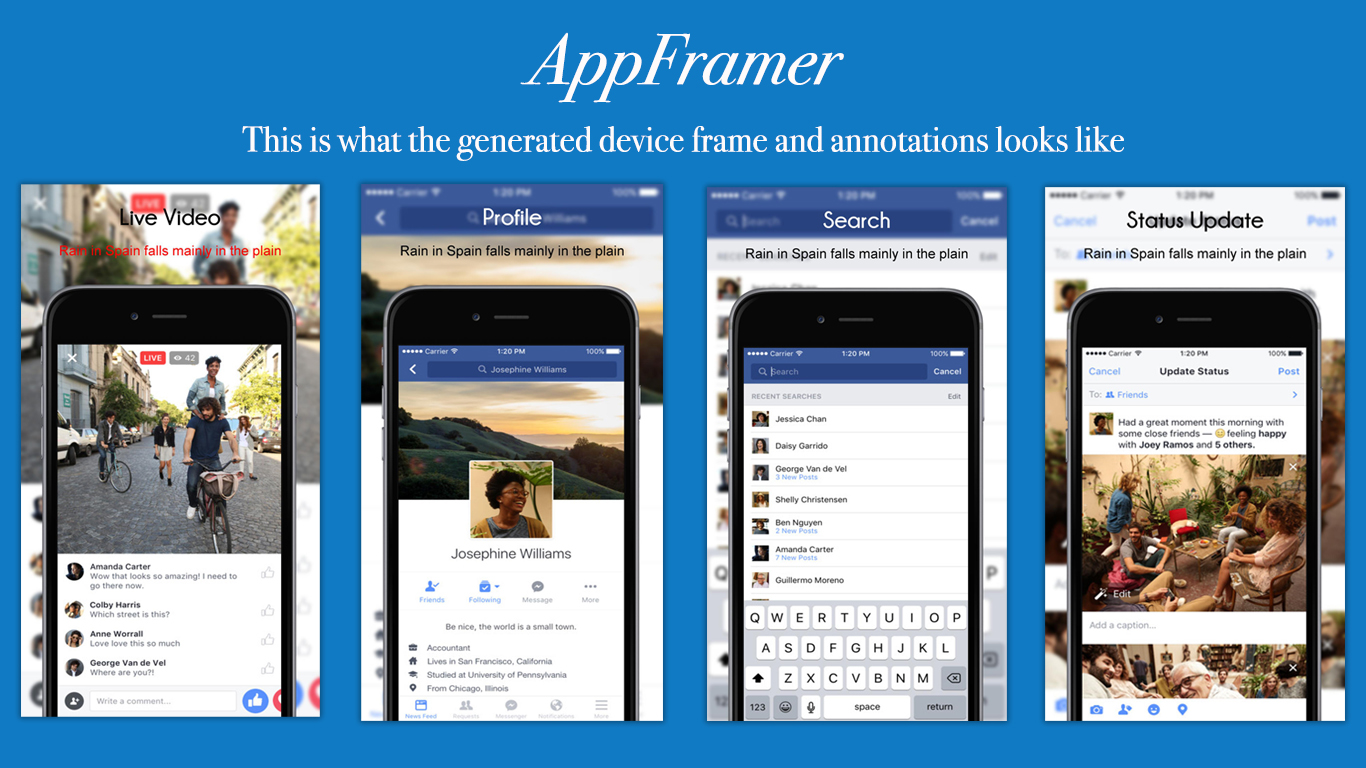
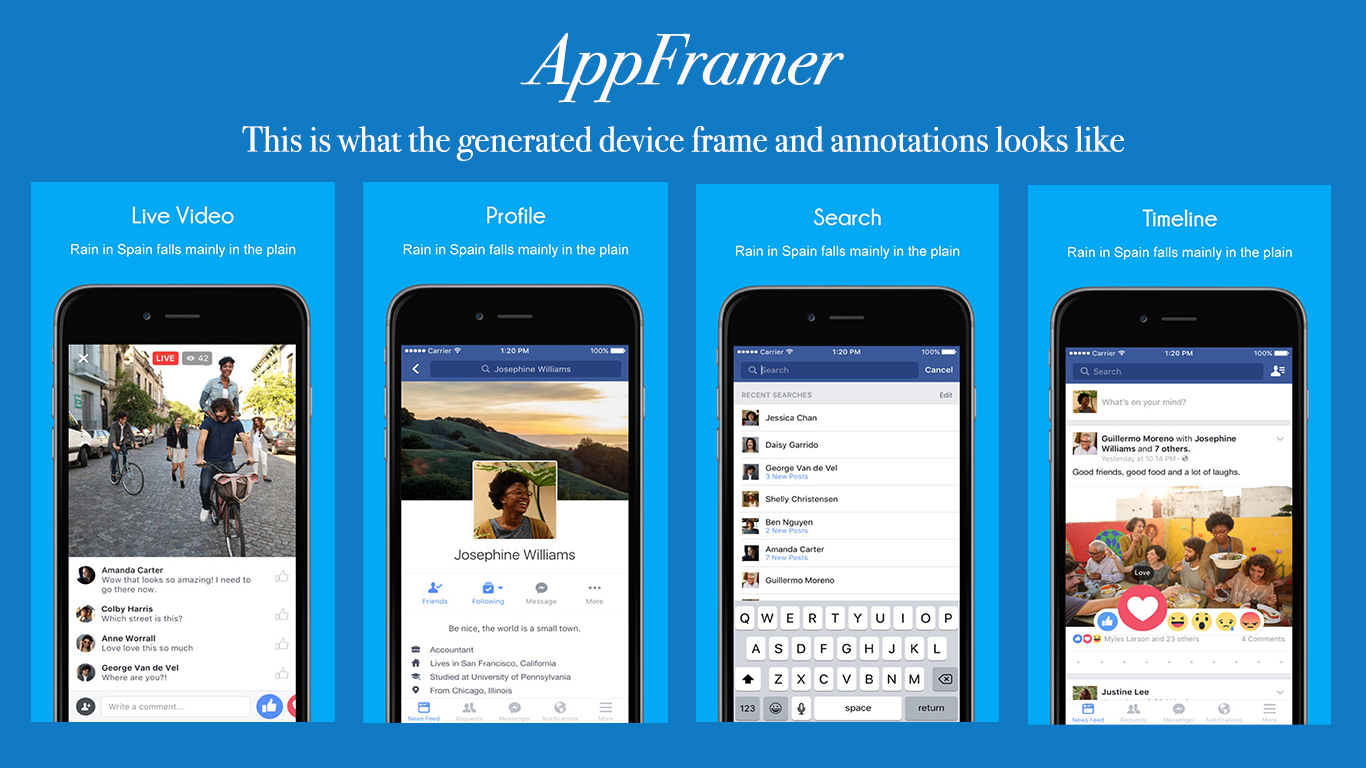
Added support for plain background

diff --git a/appframer/app.py b/appframer/app.py
@@ -15,6 +15,7 @@ import argparse
 from time import strftime
 import inspect
 from six.moves import getcwd
+
 """
 The following resolutions are acceptable to iTunes connect:
 
@@ -44,6 +45,7 @@ iPad Pro
 
 OUTPUT_DIR = getcwd() + '/FramedAppScreens - %s/' % strftime("%d-%m-%Y AT %H.%M")
 
+
 def get_script_dir(follow_symlinks=True):
     if getattr(sys, 'frozen', False):  # py2exe, PyInstaller, cx_Freeze
         path = os.path.abspath(sys.executable)
@@ -55,17 +57,26 @@ def get_script_dir(follow_symlinks=True):
 
 
 class FrameScreenshots:
-    def __init__(self, screenshot_location, title_text, desc_text, title_color=None, desc_color=None):
+    def __init__(self, screenshot_location, title_text, desc_text, title_color=None, desc_color=None, bg_color=None):
         self.screenshot_location = screenshot_location
         self.title_text = title_text
         self.desc_text = desc_text
         # Opening the screen shot image file
         self.screenshot_image = Image.open(self.screenshot_location)
-        self.title_color = (title_color if title_color else (255, 255, 255))
-        self.desc_color = (desc_color if desc_color else (255, 255, 255))
+        self.title_color = (self.parse_color(title_color) if title_color else (255, 255, 255))
+        self.desc_color = (self.parse_color(desc_color) if desc_color else (255, 255, 255))
+        self.bg_color = (self.parse_color(bg_color) if bg_color else (3, 169, 244))
         # Loading Fonts...
         self.title_font = ImageFont.truetype(get_script_dir() + "/fonts/Champagne & Limousines Bold.ttf", 120)
         self.desc_font = ImageFont.truetype(get_script_dir() + '/fonts/ufonts.com_arial-ce.ttf', 70)
+
+    def parse_color(self, color_string):
+        if '(' and ')' and ',' in color_string:
+            color_list = color_string.strip('()').replace(' ', '').split(',')
+            return int(color_list[0]), int(color_list[1]), int(color_list[2])
+        else:
+            print color_string
+            return color_string
 
     def generate(self):
         screen_sizes = dict()
@@ -80,29 +91,31 @@ class FrameScreenshots:
         print("------------------------------------------")
 
     def process_iphone(self, dim, width, height):
-        scrshot2 = self.screenshot_image.resize((1536, 2726), PIL.Image.ANTIALIAS)
-        final_version = scrshot2.filter(ImageFilter.GaussianBlur(radius=12))
-        self.set_text(final_version, self.desc_text, self.desc_font, 'desc')
-        self.set_text(final_version, self.title_text, self.title_font, 'title')
+        background = Image.new('RGBA', size=(1536, 2726), color=self.bg_color)
+        # Maybe we should consider a blur background some other time, a plain background will do for now
+        # scrshot2 = self.screenshot_image.resize((1536, 2726), PIL.Image.ANTIALIAS)
+        # background = scrshot2.filter(ImageFilter.GaussianBlur(radius=12))
+        self.set_text(background, self.desc_text, self.desc_font, 'desc')
+        self.set_text(background, self.title_text, self.title_font, 'title')
         # ------------------
         iphone_type = ('iphone6plus' if dim > 4 else 'iphone5')
         iphone_device = Image.open("%s/devices/%s.png" % (get_script_dir(), iphone_type))
-        final_version.paste(iphone_device, (0, 0), iphone_device)
+        background.paste(iphone_device, (0, 0), iphone_device)
         if dim <= 4:
             img2 = self.screenshot_image.resize((1135, 1800), PIL.Image.ANTIALIAS)
-            final_version.paste(img2, (200, 920))
+            background.paste(img2, (200, 920))
         else:
             img2 = self.screenshot_image.resize((1147, 1906), PIL.Image.ANTIALIAS)
-            final_version.paste(img2, (190, 820))
+            background.paste(img2, (190, 820))
         if not os.path.isdir(OUTPUT_DIR):
             os.mkdir(OUTPUT_DIR)
         destination_dir = OUTPUT_DIR + '/%s' % dim
         if not os.path.isdir(destination_dir):
             os.mkdir(destination_dir)
-        final_version = final_version.resize((width, height), PIL.Image.ANTIALIAS)
+        background = background.resize((width, height), PIL.Image.ANTIALIAS)
         valid_chars = "-_.() %s%s" % (string.ascii_letters, string.digits)
         file_name = ''.join(c for c in self.title_text if c in valid_chars)
-        final_version.convert('RGB').save("%s/%s.jpg" % (destination_dir, file_name))
+        background.convert('RGB').save("%s/%s.jpg" % (destination_dir, file_name))
 
     def set_text(self, blurred_image, text, font, text_type):
         MAX_W, MAX_H = blurred_image.size
@@ -117,7 +130,7 @@ class FrameScreenshots:
 
 
 def main():
-    desc = 'AppFramer helps to reduce the pain of putting your app screenshots in the various device frames'
+    desc = 'AppFramer helps to put your app screenshots in beautiful device frames with annotations by running a simple command.'
     parser = argparse.ArgumentParser(prog='appframer', description=desc)
     parser.add_argument('-i', '--input', type=str, help='Pass the input screens.json file location', required=True)
     # TODO - allow the user to specify output directory
@@ -127,8 +140,10 @@ def main():
     print("------------------------------------------")
     if 'screens' in data and isinstance(data['screens'], list):
         for screen in data['screens']:
+            print screen['background_color']
             framedshot = FrameScreenshots(screen['file_path'], screen['title'], screen['description'],
-                                          screen['title_color'], screen['description_color'])
+                                          screen['title_color'], screen['description_color'],
+                                          screen['background_color'])
             framedshot.generate()
         print("------------------------------------------")
         print("Screenshots device frame processing complete...")

diff --git a/setup.py b/setup.py
@@ -3,7 +3,7 @@ import sys, os
 
 __url__ = 'https://github.com/olucurious/AppFramer'
 
-__version__ = '1.0.1'
+__version__ = '1.0.2'
 
 if sys.argv[-1] == 'publish':
     os.system("git tag -a %s -m 'v%s'" % (__version__, __version__))
